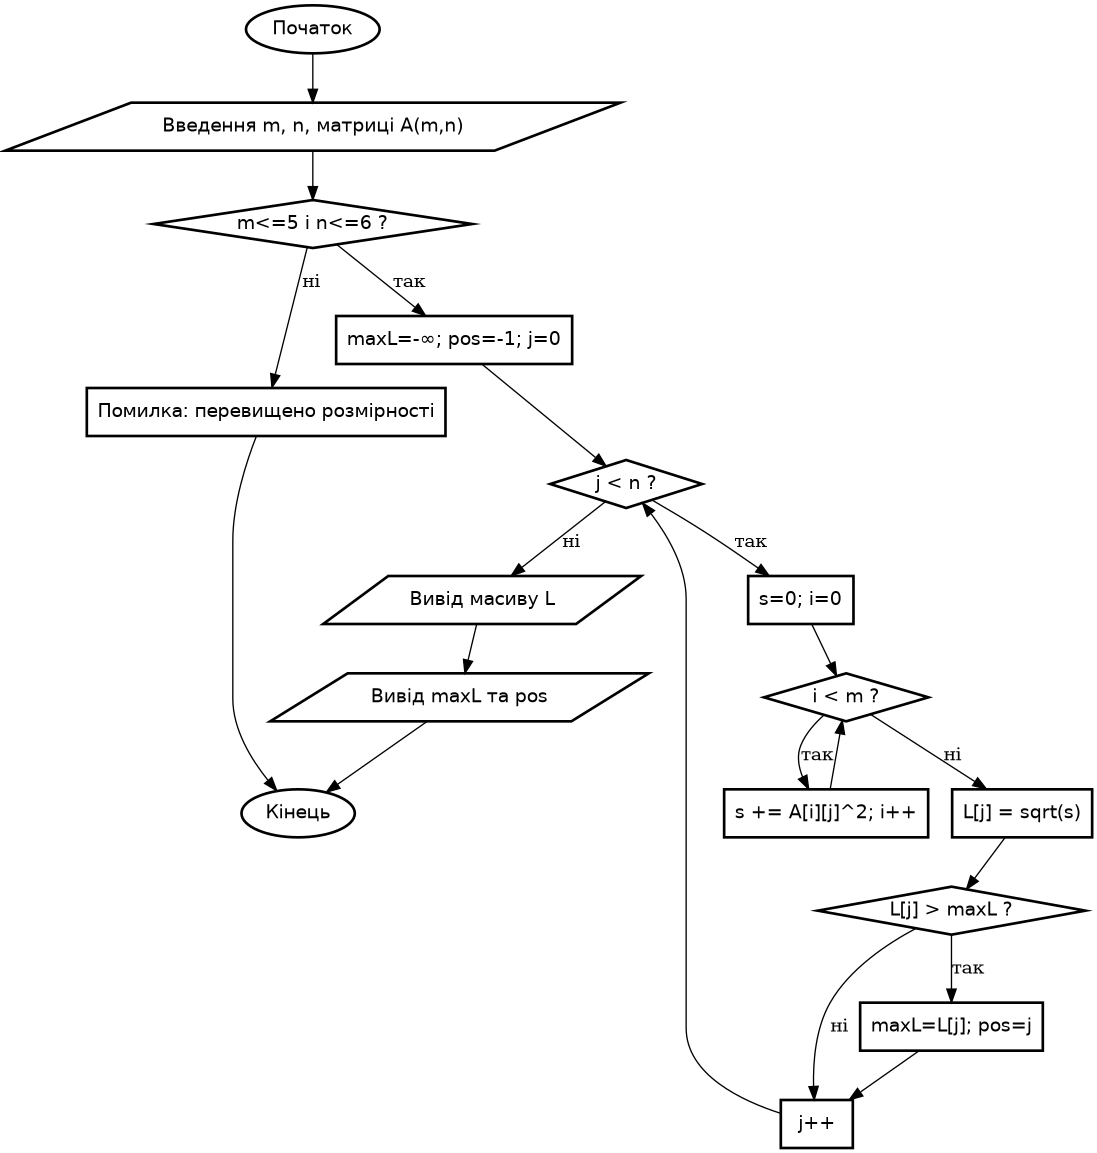
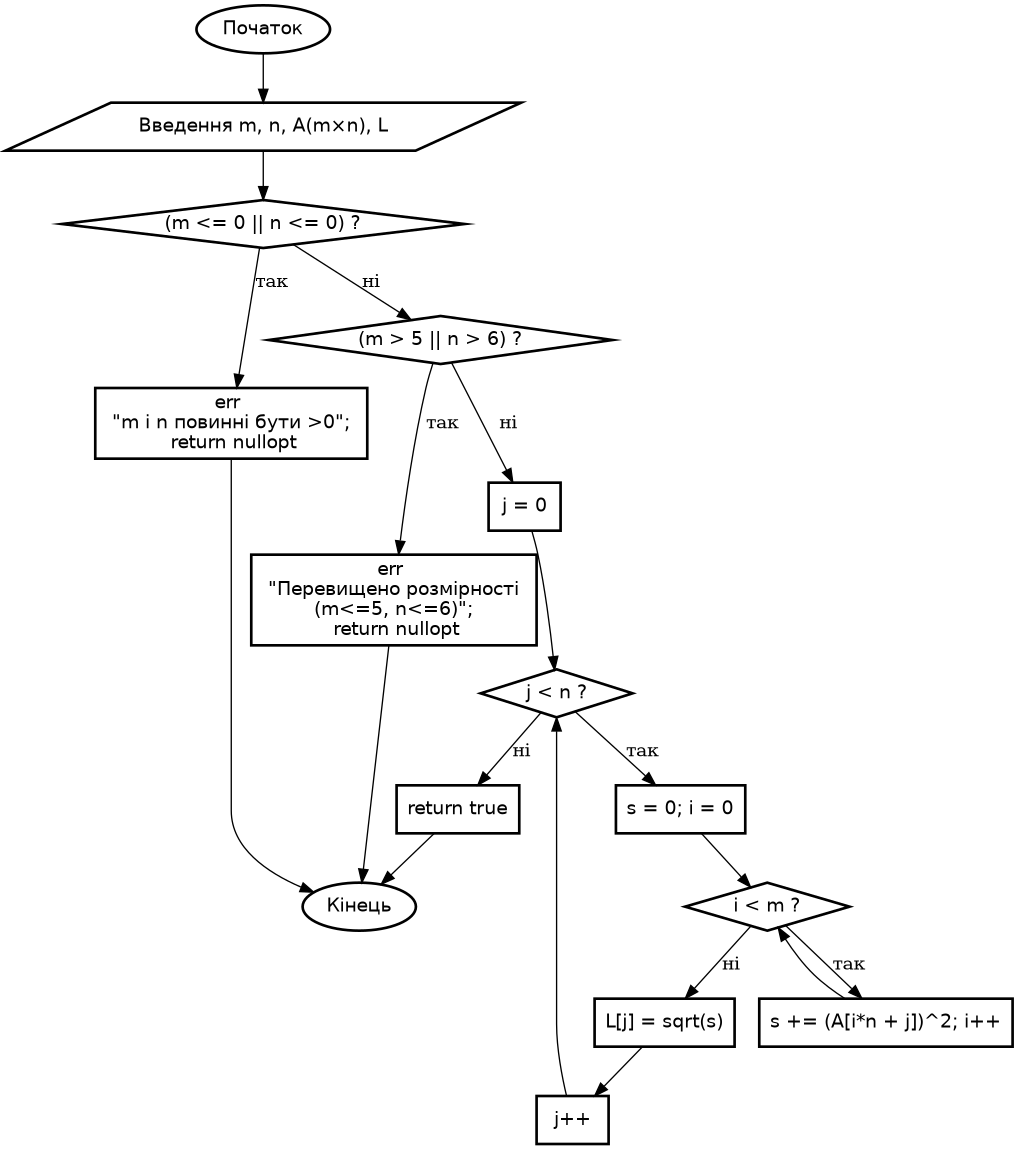
Відредаговано UML 2025-09-21-one-dimensional-arrays у другому завданні

diff --git a/III_course/2025-09-21-one-dimensional-arrays/oda.cpp b/III_course/2025-09-21-one-dimensional-arrays/oda.cpp
@@ -89,7 +89,8 @@ void test_task2()
     // Навмисний фейл: n=0
     { // ізолюємо scope
         double L[1]; // фіктивний масив
-        if (const auto res = task2(m, 0, &A[0][0], L, err); !res) {
+        const auto res = task2(m, 0, &A[0][0], L, err);
+        if (!res) {
             cout << "Очікувано ERROR: " << err << "\n";
         }
     }
@@ -97,7 +98,8 @@ void test_task2()
     // Навмисний фейл: m=6
     { // ізолюємо scope
         double L[n];
-        if (const auto res = task2(6, n, &A[0][0], L, err); !res) {
+        const auto res = task2(6, n, &A[0][0], L, err);
+        if (!res) {
             cout << "Очікувано ERROR: " << err << "\n";
         }
     }

diff --git a/III_course/2025-09-21-one-dimensional-arrays/README.md b/III_course/2025-09-21-one-dimensional-arrays/README.md
@@ -62,6 +62,8 @@ $$
 
 ![oda_task2.png](graphviz/oda_task2.png)
 
+![test_task2.png](graphviz/test_task2.png)
+
 5) **Тестування ( `test_task2` ):**
 
 ![2025-09-21_05-38-08.png](screenshots/2025-09-21_05-38-08.png)
